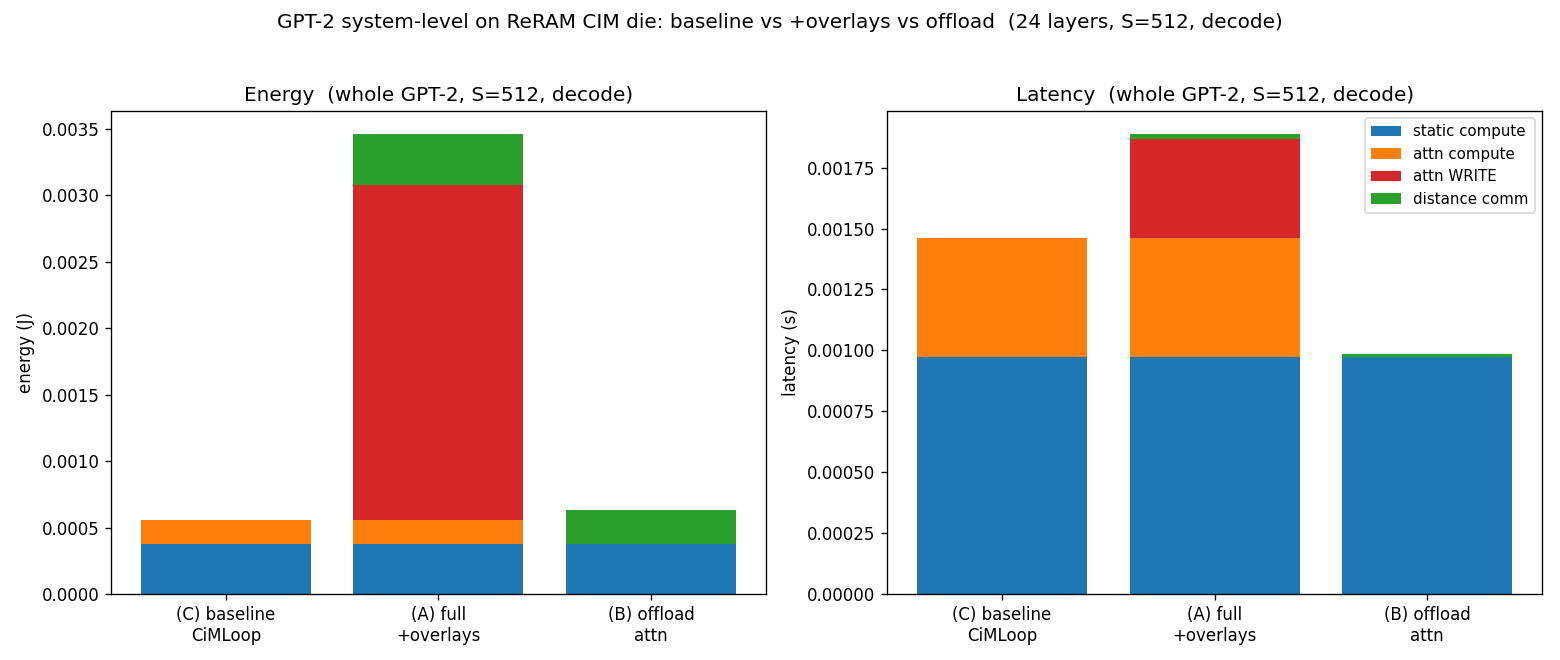
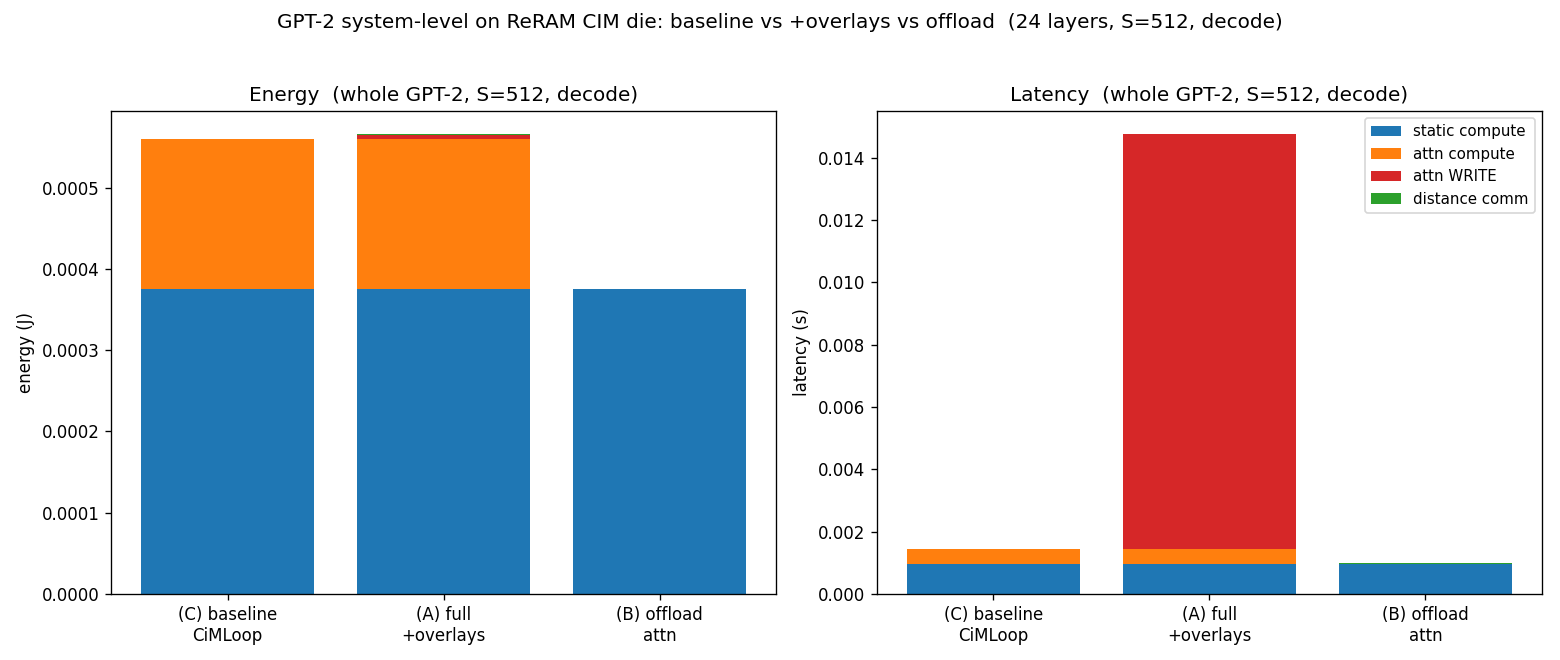
Fix two costing bugs that invalidated the headline system-level results
1. placement_aware: the distance overlay's baseline was a unit mismatch.

   base = Total_scalar_accesses x Vector_access_energy multiplies a SCALAR count
   by a PER-VECTOR energy (a vector = Block size = 128 scalars for the router),
   and the scalar-access total aggregates dataspaces that don't all drive that
   energy. Combined, this overstated the router's baseline by ~7300x (1.008e-2 J
   vs the 1.38e-6 J the simulator itself reports for ffn1).

   perceive() now parses each component's own `Energy (total)` into `energy_J`
   and position_aware_cost() scales that. This is the right anchor: the model
   re-prices the simulator's flat per-word charge as reference_hops' worth of
   travel, so the base must be that charge.

   Effect: whole-model prefill A/C energy 1.71x -> 1.01x. The "+71% energy from
   distance" was an artifact. Placement RATIOS (3.58x, 17.8%, grid-vs-linear
   4.00x) are unaffected -- base cancels in a ratio.

2. llm_workload: decode charged a full K/V cache rewrite every step.

   `Klen = S` had no phase split, so write_cells billed all S tokens per decode
   step instead of the one appended token -- a 512x overcount, and it directly
   contradicted the latency model next to it (n_pulses = 1 if decode), which
   already assumed append. Rewriting the cache per step would contradict weight
   residency and exhaust ReRAM endurance within seconds of generation.

   Split Klen (attended, compute) from Kwrite (newly programmed) and derive both
[…]

diff --git a/workspace/scripts/placement_aware.py b/workspace/scripts/placement_aware.py
@@ -56,26 +56,39 @@ STATS_FILENAME = "timeloop-mapper.stats.txt"
 # 1. Perceive: extract per-component (fanout, volume, unit_energy) from stats
 # ---------------------------------------------------------------------------
 def perceive(stats_path: str) -> Dict[str, dict]:
-    """Parse a Timeloop stats.txt into {component_name: {fanout, unit_pJ, volume}}."""
+    """Parse a Timeloop stats.txt into
+    {component_name: {fanout, unit_pJ, volume, energy_J}}.
+
+    `energy_J` is the component's OWN reported energy, summed over its dataspaces
+    (the `Energy (total)` lines). This is the position-blind communication energy the
+    simulator actually charges, and it is what the distance overlay must scale.
+
+    NOTE: do NOT reconstruct it as `volume * unit_pJ`. `Total scalar accesses` and
+    `Vector access energy` are in different units -- the latter is per VECTOR access
+    (Block size scalars, 128 for the router), and the scalar-access total aggregates
+    dataspaces/encodings that do not all drive that energy. Multiplying the two
+    overstates the real figure by ~3 orders of magnitude.
+    """
     with open(stats_path, "r") as f:
         text = f.read()
 
     levels: Dict[str, dict] = {}
-    # SPECS block: instance count + per-access energy
-    for m in re.finditer(
-        r"=== (\w+) ===\n.*?Instances\s*:\s*(\d+)"
-        r".*?Vector access energy\s*:\s*([\d.eE+-]+)\s*pJ",
-        text,
-        re.DOTALL,
-    ):
-        name, inst, ue = m.group(1), int(m.group(2)), float(m.group(3))
-        levels[name] = {"fanout": inst, "unit_pJ": ue, "volume": 0}
-    # STATS block: total scalar accesses (data-movement volume)
-    for m in re.finditer(
-        r"=== (\w+) ===\s*\n\s*Total scalar accesses\s*:\s*(\d+)", text
-    ):
-        if m.group(1) in levels:
-            levels[m.group(1)]["volume"] = int(m.group(2))
+    parts = re.split(r"=== (\w+) ===", text)   # [pre, name1, body1, name2, body2, ...]
+    for i in range(1, len(parts) - 1, 2):
+        name, body = parts[i], parts[i + 1]
+        inst = re.search(r"Instances\s*:\s*(\d+)", body)
+        ue = re.search(r"Vector access energy\s*:\s*([\d.eE+-]+)\s*pJ", body)
+        if not (inst and ue):
+            continue
+        vol = re.search(r"Total scalar accesses\s*:\s*(\d+)", body)
+        # per-dataspace "Energy (total)" lines (exclude Temporal Reduction / Address
+        # Generation variants, which do not start the line with "Energy (total)")
+        e_pJ = sum(float(x) for x in re.findall(
+            r"^\s*Energy \(total\)\s*:\s*([\d.eE+-]+)\s*pJ", body, re.M))
+        levels[name] = {"fanout": int(inst.group(1)),
+                        "unit_pJ": float(ue.group(1)),
+                        "volume": int(vol.group(1)) if vol else 0,
+                        "energy_J": e_pJ * 1e-12}
     return levels
 
 
@@ -188,13 +201,13 @@ _INTERCONNECT_HINTS = ("router", "link", "noc", "network")
 def _is_comm_component(name: str, info: dict) -> bool:
     """True only for actual interconnect: the inter-level spatial networks
     (`inter_*_spatial`) or explicit interconnect components (router/link/NoC).
-    Must also have spatial fanout (>1) and nonzero per-access energy for the
-    distance SCALE to mean anything (zero-energy `inter_*` markers contribute 0)."""
+    Must also have spatial fanout (>1) and nonzero energy for the distance SCALE to
+    mean anything (zero-energy `inter_*` markers contribute 0)."""
     name_l = name.lower()
     is_interconnect = name_l.startswith("inter_") or any(
         h in name_l for h in _INTERCONNECT_HINTS
     )
-    return is_interconnect and info["fanout"] > 1 and info["unit_pJ"] > 0
+    return is_interconnect and info["fanout"] > 1 and info.get("energy_J", 0) > 0
 
 
 def position_aware_cost(
@@ -256,7 +269,7 @@ def position_aware_cost(
         ref_hops = max(cfg.get("reference_hops", default_reference_hops), 1e-9)
         hop_scale = cfg.get("hop_scale", 1.0)
 
-        base = info["volume"] * info["unit_pJ"] * 1e-12  # Joules, position-blind
+        base = info["energy_J"]          # the simulator's own position-blind energy
         hops = hops_fn(place_fn(info["fanout"]))
         pa = base * (hops / ref_hops) * hop_scale
         rows.append((name, info["fanout"], base, hops / ref_hops, pa))

diff --git a/workspace/scripts/llm_workload.py b/workspace/scripts/llm_workload.py
@@ -58,15 +58,20 @@ CIM_ROWS = 256   # crossbar rows -> rows beyond this tile onto parallel crossbar
 def write_latency_s(op: "Op", phase: str = "prefill", t_set_ns: float = T_SET_NS):
     """ReRAM programming latency for a DYNAMIC op (0 for static/weight ops).
 
-    SET is row-serial (one wordline at a time); rows beyond CIM_ROWS tile onto
-    PARALLEL crossbars, so the serial pulse count caps at CIM_ROWS.
-      prefill: program the whole contraction dim (op.C rows) of K/V.
-      decode : only the ONE new token's row is appended per step.
+    SET is row-serial: cells on ONE wordline program together (per-column bitline
+    voltages set each cell's target conductance), but distinct wordlines must be
+    pulsed in turn. So the serial pulse count is the number of DISTINCT ROWS the
+    write touches (`op.write_rows`), NOT the cell count. Rows beyond CIM_ROWS tile
+    onto PARALLEL crossbars, so the count caps at CIM_ROWS.
+
+    `phase` is already baked into op.write_rows/op.write_cells by block_ops() and
+    is accepted only for call-site compatibility.
+
     Returns seconds (a SERIAL phase, added before the op's compute latency).
     """
     if op.kind != "dynamic":
         return 0.0
-    n_pulses = 1 if phase == "decode" else min(op.C, CIM_ROWS)
+    n_pulses = min(op.write_rows, CIM_ROWS)
     return n_pulses * t_set_ns * 1e-9
 
 
@@ -88,6 +93,7 @@ class Op:
     M: int
     N: int = 1
     write_cells: int = 0  # dynamic operand cells programmed into ReRAM / inference
+    write_rows: int = 0   # DISTINCT wordlines those cells span -> serial SET pulses
 
 
 def block_ops(cfg: GptConfig, S: int, phase: str = "prefill"):
@@ -98,13 +104,22 @@ def block_ops(cfg: GptConfig, S: int, phase: str = "prefill"):
     """
     dh = cfg.d_model // cfg.n_heads
     Pq = S if phase == "prefill" else 1   # query rows this step
-    Klen = S                              # keys/values attended
+    Klen = S                              # keys/values ATTENDED over (compute shape)
+    # Rows/cols NEWLY PROGRAMMED this step. ReRAM K/V arrays are resident and
+    # APPEND-ONLY: prefill programs all S tokens; decode appends just the new
+    # token. (Rewriting the whole cache per step would both contradict weight
+    # residency and exceed ReRAM endurance within seconds of generation.)
+    Kwrite = S if phase == "prefill" else 1
     return [
         Op("qkv_proj", "static",  P=Pq, C=cfg.d_model, M=3 * cfg.d_model),
+        # K^T is mapped dh(rows) x Klen(cols): a new token is a new COLUMN, so its
+        # dh cells land on dh DISTINCT wordlines -> dh serial SET pulses.
         Op("qk^t",     "dynamic", P=Pq, C=dh,   M=Klen, N=cfg.n_heads,
-           write_cells=dh * Klen * cfg.n_heads),                 # K programmed in
+           write_cells=dh * Kwrite * cfg.n_heads, write_rows=dh),
+        # V is mapped Klen(rows) x dh(cols): a new token is a new ROW, so its dh
+        # cells share ONE wordline -> 1 serial SET pulse.
         Op("av",       "dynamic", P=Pq, C=Klen, M=dh,   N=cfg.n_heads,
-           write_cells=Klen * dh * cfg.n_heads),                 # V programmed in
+           write_cells=Kwrite * dh * cfg.n_heads, write_rows=Kwrite),
         Op("out_proj", "static",  P=Pq, C=cfg.d_model, M=cfg.d_model),
         Op("ffn1",     "static",  P=Pq, C=cfg.d_model, M=cfg.d_ff),
         Op("ffn2",     "static",  P=Pq, C=cfg.d_ff,    M=cfg.d_model),

diff --git a/workspace/scripts/analyze_position_aware.py b/workspace/scripts/analyze_position_aware.py
@@ -39,12 +39,25 @@ PATTERNS = ["neighbor", "tree", "to_center", "all_to_all"]
 REFERENCE_HOPS = 1.0   # explicit assumption: baseline per-word energy == 1 hop
 REF_SETTING = ("grid", "to_center")  # normalize everything to this layout
 
+def _cache_is_current(entries) -> bool:
+    """A cache written by an older perceive() lacks `energy_J`, which would silently
+    zero every base and make the whole sweep 0 (then divide-by-zero on the ref).
+    Re-run rather than trust it."""
+    return all("energy_J" in lv
+               for e in entries for lv in e.get("levels", {}).values())
+
+
 # ----------------------------------------------------- phase 1: run + cache
+cached = None
 if os.path.exists(CACHE):
-    print(f"Loading cached perceived levels: {CACHE}")
     with open(CACHE) as f:
         cached = json.load(f)
-else:
+    if _cache_is_current(cached):
+        print(f"Loading cached perceived levels: {CACHE}")
+    else:
+        print(f"Cache {CACHE} predates the energy_J fix -- discarding and re-running.")
+        cached = None
+if cached is None:
     layers = mlx.list_layers(DNN)
     if N_LAYERS:
         layers = layers[:N_LAYERS]

diff --git a/workspace/scripts/crossbar_stats.py b/workspace/scripts/crossbar_stats.py
@@ -99,7 +99,7 @@ def report(output_dir, layer_name=""):
         stats_text = f.read()
     mapping_text = open(map_path).read() if os.path.exists(map_path) else ""
 
-    levels = pa.perceive(stats_path)                 # {name: {fanout, unit_pJ, volume}}
+    levels = pa.perceive(stats_path)      # {name: {fanout, unit_pJ, volume, energy_J}}
     computes = _total_computes(stats_text)
 
     def fanout(name):

diff --git a/workspace/analysis/SUMMARY.en.md b/workspace/analysis/SUMMARY.en.md
@@ -18,9 +18,9 @@
 
 | Dimension | CiMLoop default | Consequence / our fix |
 |---|---|---|
-| **Physical position** | Topological, no coordinates/distance | Near/far layouts cost the same → distance overlay (§2) |
+| **Physical position** | Topological, no coordinates/distance | Near/far layouts cost the same → distance overlay (§2). ⚠ Measured: at today's parameters it **moves neither energy nor latency** — see §6.3 |
 | **Latency / time** | Only cycles, interconnect assumed infinitely fast | System latency under-counted → latency modeling (§5) |
-| **Attention write** | QK^T/AV as plain matmuls | Ignores writing K/V every inference → write cost/latency (§4.2/§5) |
+| **Attention write** | QK^T/AV as plain matmuls | Ignores writing K/V every inference → write cost/latency (§4.2/§5). **Currently the only source of a material difference (decode latency 10.12×)** |
 | **Weight residency** | Streams weights from DRAM by default | Wrong for ReRAM (non-volatile, resident) → resident multi-die (§1) |
 | **Value-dependent energy** | Uses that layer's `histograms` | Synthetic workload once reused another layer's dist. → inject per model (§4.5) |
 
@@ -143,9 +143,16 @@ placement_aware.
 attention (QK^T/AV) ∝ S², FFN/projections ∝ S → attention is no longer artificially small.
 ![attention share vs sequence length](attention_share_vs_seqlen.png)
 
-### 4.2 Attention write cost (energy)
+### 4.2 Attention write cost
 QK^T/AV are activation×activation → K/V must be **programmed into ReRAM** every
-inference, not amortized. Overlay `write_cells × E_WRITE_PER_CELL_J`.
+inference, not amortized. Overlay `write_cells × E_WRITE_PER_CELL_J` (energy) and
+`write_rows × T_SET_NS` (latency), both derived from the one append geometry in §5.
+
+> **Measured verdict: this term matters in latency, not energy.** Whole-model write
+> energy is 2.52e-3 J (prefill) / **4.9e-6 J** (decode, ~0.9% of decode energy), but
+> write latency is **65.4 ms** (prefill) / **13.3 ms** (decode, **90% of decode
+> latency**). The SET pulse is 8520 ns — very long — while the per-cell programming
+> energy is tiny.
 
 ### 4.3 KV-cache (decode)
 Each step reads the whole KV-cache: read ∝ G² (dominant), write ∝ G.
@@ -175,12 +182,27 @@ parallel, sum over serial). Three parts:
 |---|---|---|
 | compute + bandwidth stall + IO | Timeloop native cycles | insufficient bandwidth → stall → cycles↑ (`bandwidth_limiter` is this knob) |
 | distance propagation latency | overlay `position_aware_latency` | `hops × hop_latency_ns`, serial across phases, max over parallel |
-| ReRAM write latency | overlay `write_latency_s` | SET 8520 ns row-serial, before compute; prefill programs the whole C, decode 1 row/step |
+| ReRAM write latency | overlay `write_latency_s` | SET 8520 ns serial **per wordline**, before compute; pulse count = the number of **rows** the write touches (`Op.write_rows`, below) |
 
-**Bandwidth experiment:** give the router a finite bandwidth → latency balloons
-linearly with `1/bandwidth` (75×–1200× at placeholder values) → **latency is
-dominated by the bottleneck bandwidth; the default "infinitely fast" interconnect =
-systematic under-count**.
+**The axis asymmetry of the K/V append** (energy and latency derive from one geometry,
+in `block_ops`): the K/V arrays are resident and **append-only** — prefill programs all
+S tokens, decode adds only the new one. But the two ops append along different axes:
+
+| op | weight shape | decode adds a token | write cells | SET pulses |
+|---|---|---|---|---|
+| `qk^t` | K^T: `dh(rows) × S(cols)` | a new **column** | dh | **dh = 64** (spread over 64 wordlines) |
+| `av` | V: `S(rows) × dh(cols)` | a new **row** | dh | **1** (one shared wordline) |
+
+→ decode vs prefill: **write energy ↓512×, but write latency only ↓5×**. This is
+directly why decode ends up write-latency-dominated.
+
+> ⚠ **Retracted:** an earlier claim here — "give the router a finite bandwidth →
+> latency balloons 75×–1200×" — **has no traceable source** (no script or result file
+> in the repo produces it), and has been removed. **The mechanism is real but is not
+> currently active**: the router's `Read/Write bandwidth` are both **unset** and the
+> stats report `Bandwidth throttling = 1.00`, i.e. **the present configuration produces
+> no stalls at all** — which is also why our latency is distance-insensitive (§6.3).
+> Reviving the claim requires an `analyze_bandwidth_sweep.py`.
 
 **Energy vs latency view** (single block):
 ![energy view vs latency view](energy_vs_latency.png)
@@ -188,13 +210,14 @@ systematic under-count**.
 | phase | attention share (energy) | attention share (latency) | write latency of block |
 |---|---|---|---|
 | prefill S=512 | 33.7% | **35.6%** | 21% |
-| decode S=512 | **87.8%** | 47.8% | 22% |
+| decode S=512 | 33.7% | **93.3%** | **90%** |
 
 > In prefill, FFN/projections are still the single largest component (energy 66%) —
-> at S=512 the transformer is FFN-heavy, which is normal; the chart is about the
-> attention share + the red write block. **Decode is the opposite: with weights
-> resident, compute collapses and attention K/V write is 82% of energy**, FFN only
-> 12% (consistent with §6.2).
+> at S=512 the transformer is FFN-heavy, which is normal. **The decode split is the
+> revealing one: attention is only 33.7% of energy but 93.3% of latency** (write alone
+> is 90%) — with weights resident the per-token compute collapses and the block is
+> almost entirely that serial SET phase. **Energy and latency give opposite verdicts
+> here.**
 
 ---
 
@@ -213,11 +236,11 @@ three scenarios:
 | Scenario | Energy | Latency |
 |---|---|---|
 | (C) baseline CiMLoop | 0.284 J | 0.249 s |
-| (A) full + overlays | **0.485 J** (1.71×) | **0.315 s** (1.26×) |
-| (B) offload attention | 0.324 J | 0.203 s |
+| (A) full + overlays | 0.288 J (**1.01×**) | **0.315 s** (1.26×) |
+| (B) offload attention | 0.191 J | 0.203 s |
 
-Overlays reveal (A vs C): energy +71%, latency +26%; offload benefit (A vs B):
-saves **33% energy, 36% latency**.
+Overlays reveal (A vs C): **energy +1%, latency +26%** (A−C = 0.0655 s, **exactly the
+65.4 ms of write latency**); offload benefit (A vs B): saves **34% energy, 36% latency**.
 
 ### 6.2 decode (S=512, ×24 layers, single generation step)
 ![system comparison decode](gpt2_system_comparison_decode.png)
@@ -225,21 +248,37 @@ saves **33% energy, 36% latency**.
 | Scenario | Energy | Latency |
 |---|---|---|
 | (C) baseline CiMLoop | 5.60e-4 J | 1.46 ms |
-| (A) full + overlays | **3.46e-3 J** (6.19×) | **1.89 ms** (1.29×) |
-| (B) offload attention | 6.35e-4 J | 0.987 ms |
+| (A) full + overlays | 5.66e-4 J (**1.01×**) | **14.8 ms (10.12×)** |
+| (B) offload attention | 3.75e-4 J | 0.987 ms |
 
-With weights resident, decode compute energy is tiny, so **ReRAM write (K/V) becomes
-the absolute dominant term** (A/C energy 6.19×, the red block); **offload saves 82%
-energy, 48% latency**.
+With weights resident the per-token compute is tiny, so the **ReRAM K/V write becomes
+the absolute dominant term — but only in latency**: A/C latency is **10.12×** (A−C =
+13.3 ms, exactly the write latency), while A/C energy is only **1.01×**. **Offload saves
+34% energy, 93% latency.**
 
 ### 6.3 Conclusions
-> - **The residency fix rewrites the decode picture**: the old "decode is DRAM-bound"
->   was a **streaming artifact**; with residency, decode compute collapses to ~0.56 mJ
->   and **attention K/V write dominates**.
-> - **Energy under-counts attention; latency (especially decode) is write-dominated.**
->   Judge offload by **A vs B** (B vs C is apples-to-oranges).
-> - **For generation-heavy decode, offloading attention saves a lot (energy −82%,
->   latency −48%).**
+> - **The headline is a latency result, not an energy result.** The baseline's **energy
+>   is essentially right** (1.01× in both phases): on this device **~96% of energy is
+>   analog compute + ADC**, and the entire on-die network is **0.12%** (measured on
+>   ffn1: router + chip2chip = 1.38e-6 + 1.84e-6 J; the GLB is a further 4.1%). Neither
+>   distance nor the write can move the total.
+> - **The baseline's latency is wrong**: it **does not model the ReRAM SET write at
+>   all**, so **decode is under-counted 10.12×**; the write is **90% of decode latency**.
+>   This term depends on no calibration choice — it is a missing cost, not a re-priced
+>   one.
+> - **For generation-heavy decode, offloading attention pays off enormously — on
+>   throughput grounds, not energy** (latency −93%, energy only −34%).
+> - **Position-awareness moves neither total at today's placeholder parameters**: energy
+>   because communication is 0.12%; latency because the distance term is **0.006%
+>   (prefill) / 0.13% (decode)** (measured: `dist_latency` totals just 1.96e-5 s for the
+>   whole model). **This is an honest negative result**: within-die placement is not an
+>   energy lever on this device. Making it bite needs two things we don't have — per-level
+>   **link bandwidths** (a link with no bandwidth cap can never stall) and **D2D costs**.
+>   What the position model gives today is the ability to **see** differences that are
+>   structurally invisible to a position-blind model (3.58×, 17.8%, 21.7× across
+>   patterns), which is exactly what a placement search consumes — a search needs
+>   **rankings**, not absolutes.
+> - Judge offload by **A vs B** (B vs C is apples-to-oranges).
 
 ### 6.4 Where to see the mapping-search result
 Every op goes through the Timeloop **mapper search** (config `models/include/mapper.yaml`:
